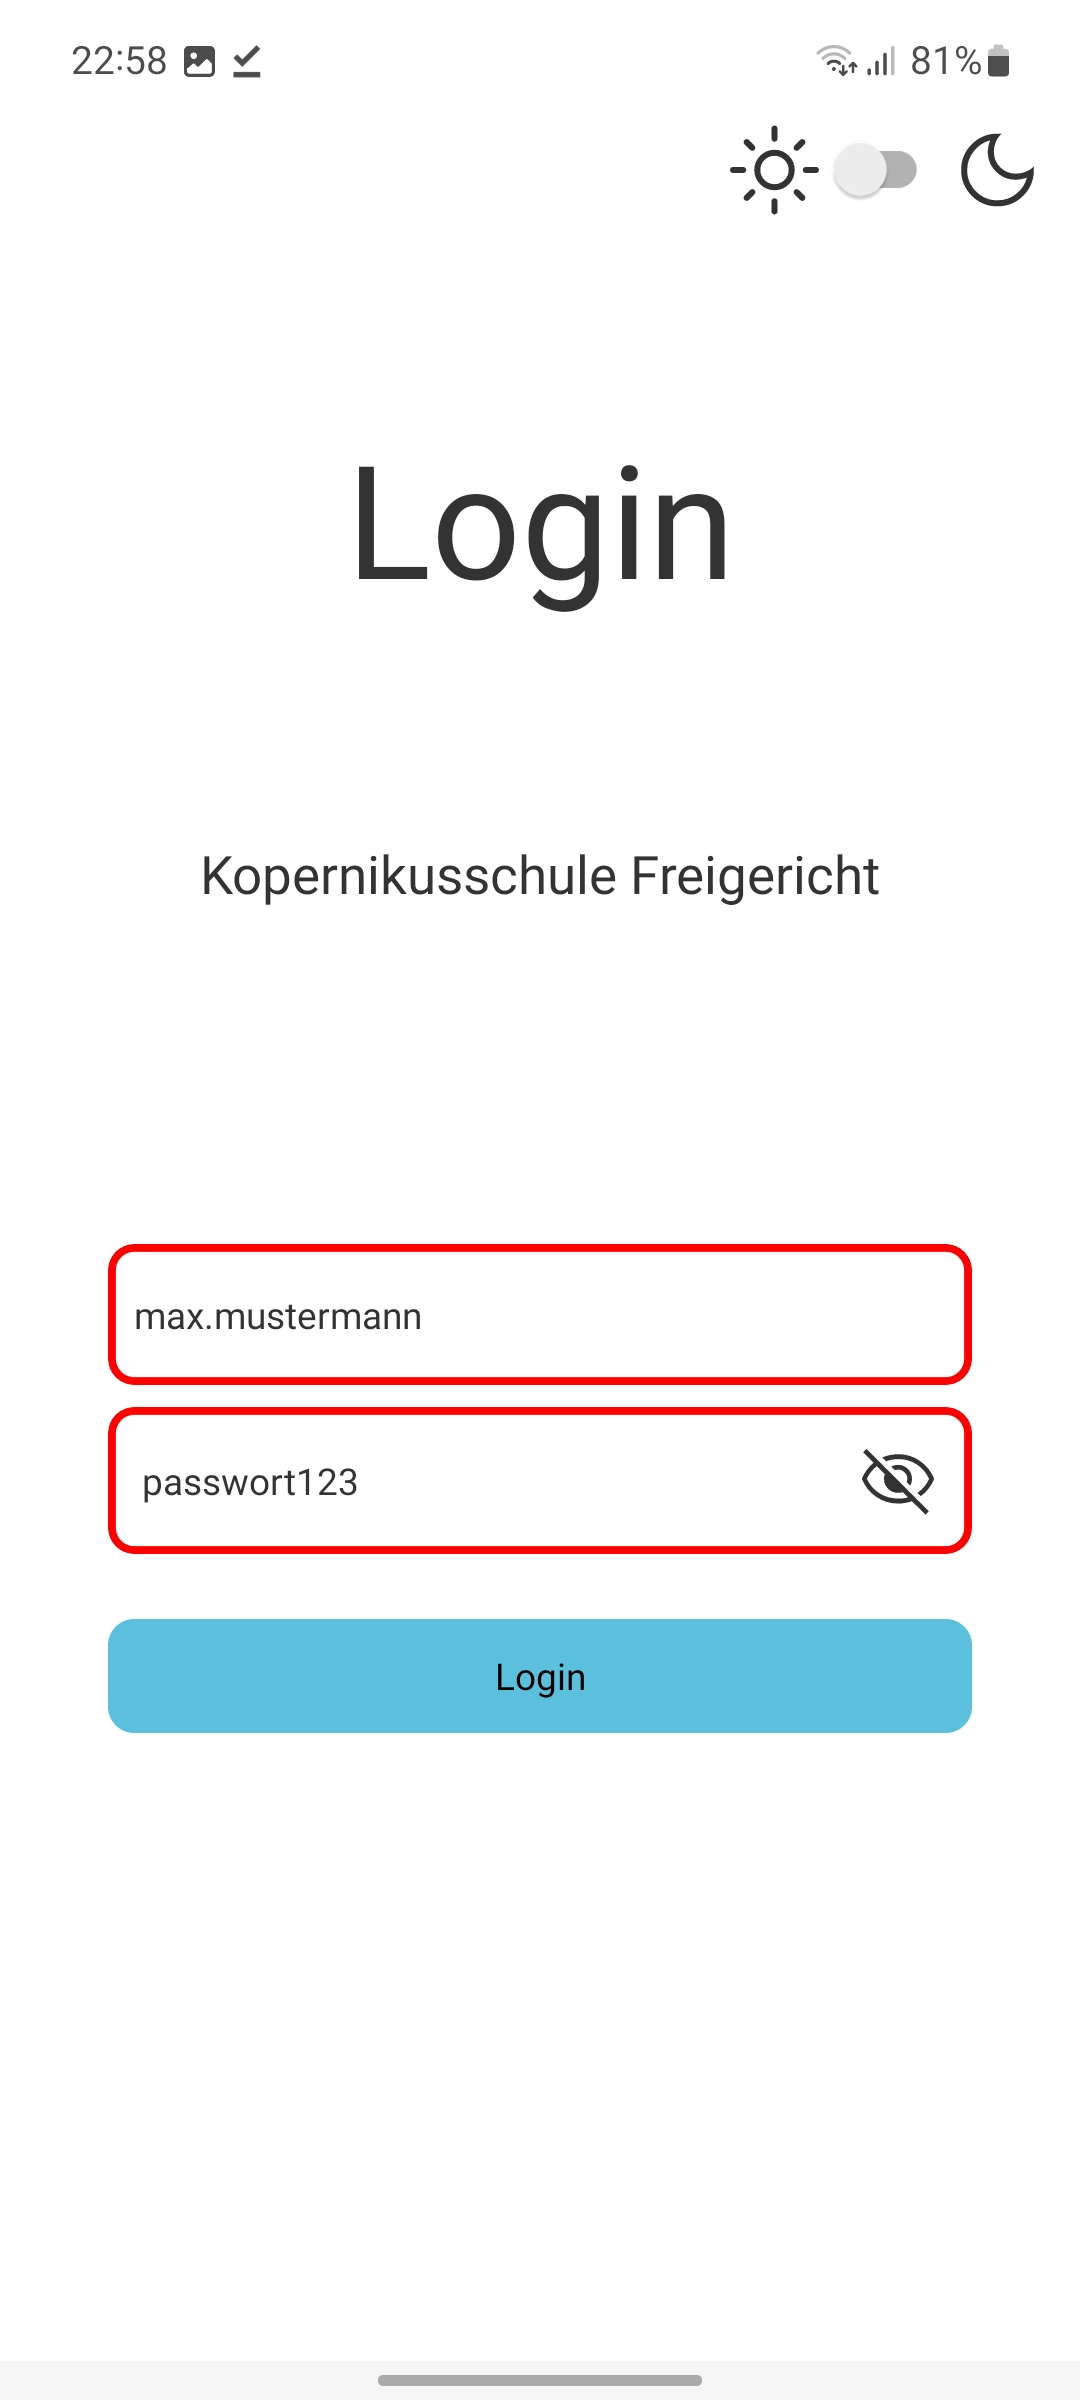
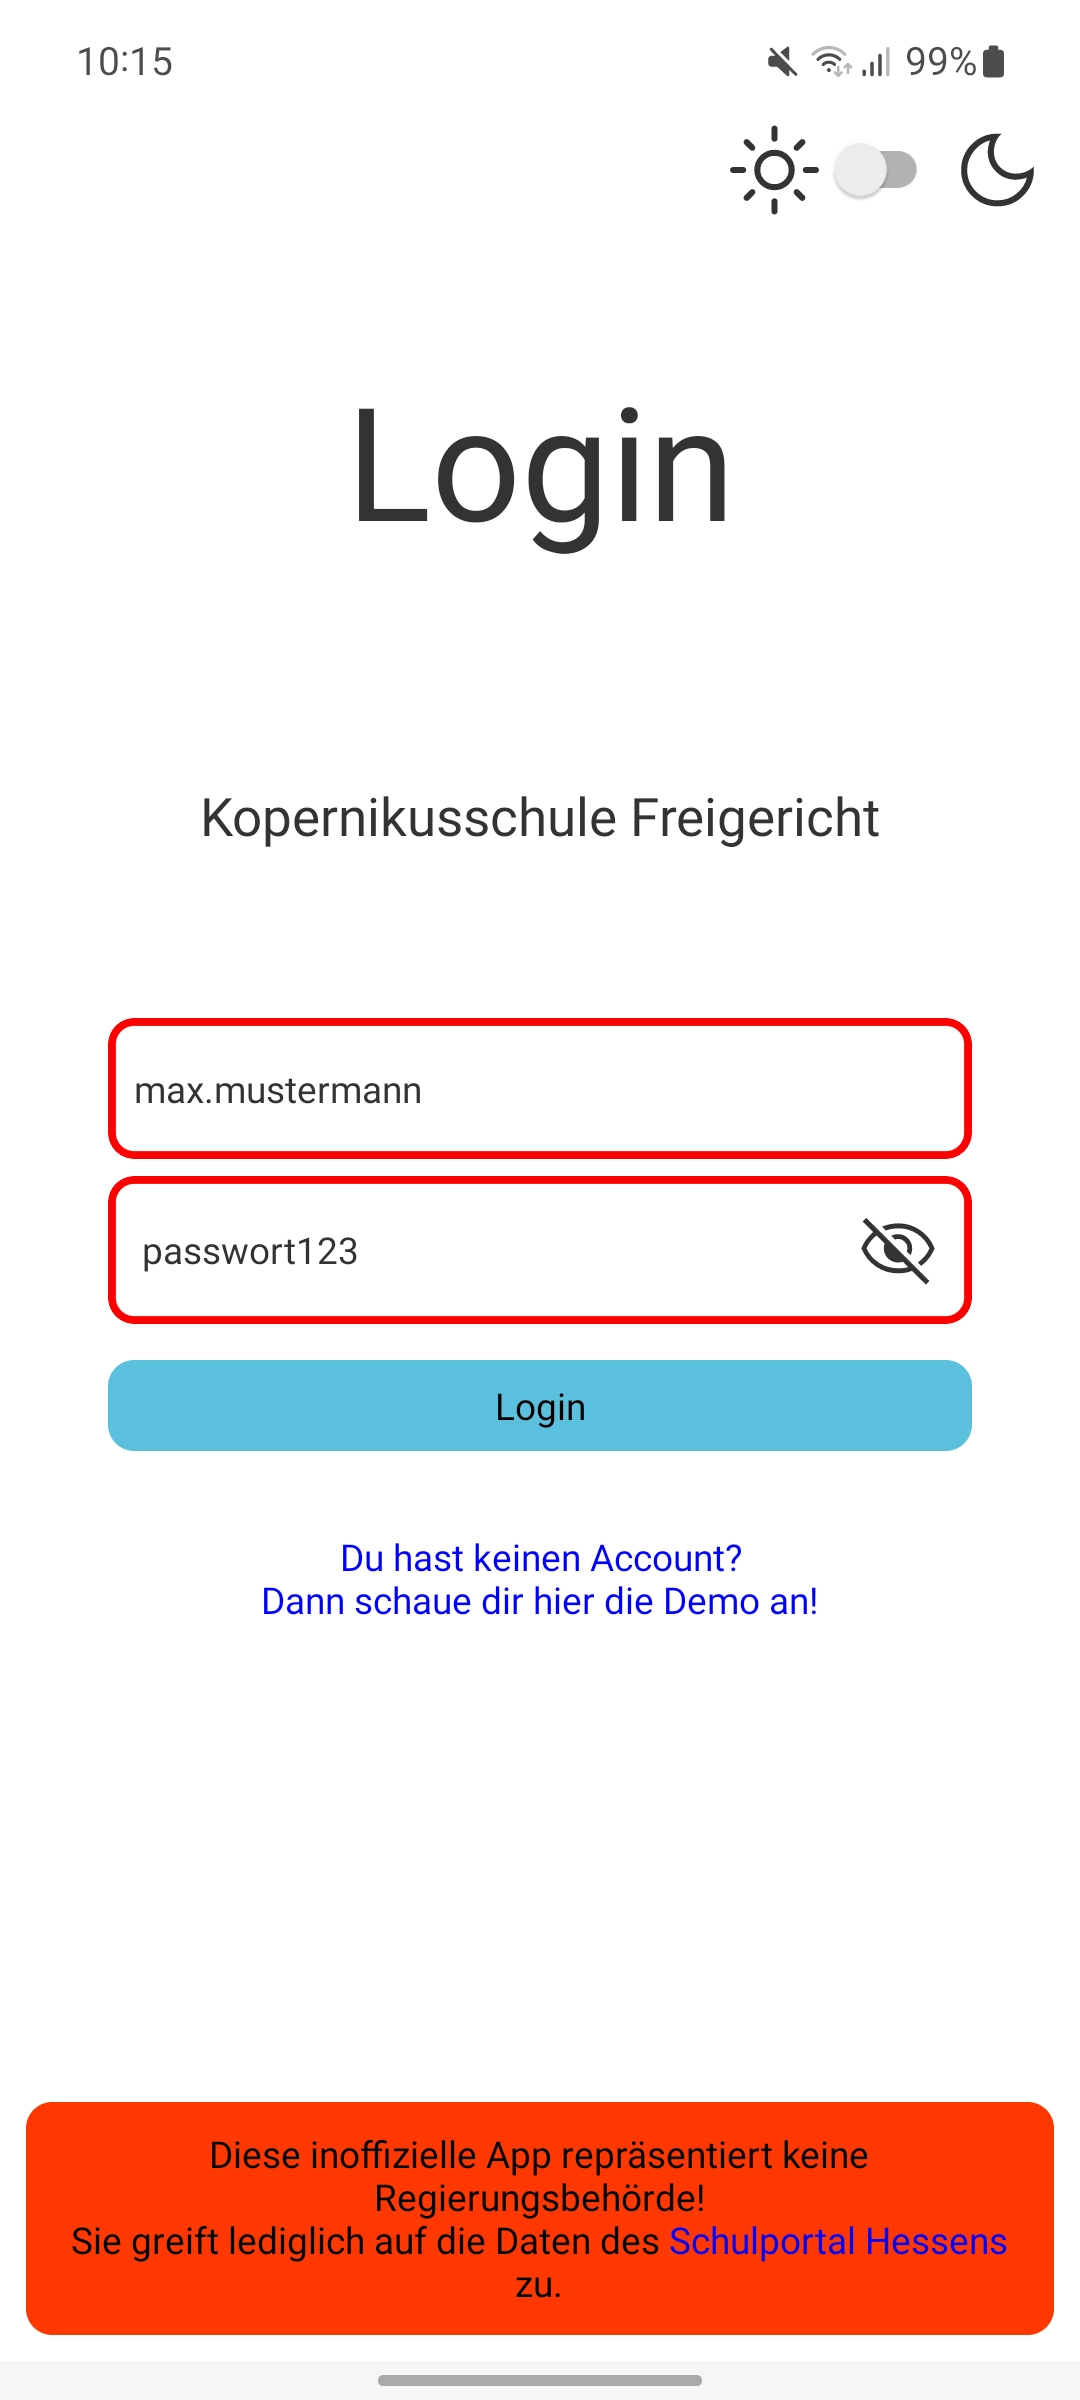
refactored some code, improved ux

diff --git a/src/screens/SubstitutionPlanScreen/SubstitutionPlanScreen.tsx b/src/screens/SubstitutionPlanScreen/SubstitutionPlanScreen.tsx
@@ -19,6 +19,7 @@ import LoadingComponent from "../../components/LoadingComponent";
 import NoSubstitutionsEntry from "./components/NoSubstitutionsEntry";
 import { useTimetable } from "../../hooks/api/useTimetable";
 import useAsyncStorage from "../../hooks/useAsyncStorage";
+import { getTeachers } from "../../services/parsing/getTeachers";
 
 export default function SubstitutionPlanScreen() {
   const [isDonatePopupVisible, setDonatePopupVisible] = useState(false);
@@ -138,7 +139,8 @@ export default function SubstitutionPlanScreen() {
     setPersonalizedSubstitutionPlanEnabled((previousState) => !previousState);
   }
 
-  const { theme, toggleTheme, setTheme } = useContext(ThemeContext);
+  const { theme, toggleTheme, setTheme, backgroundColor } =
+    useContext(ThemeContext);
 
   if (isScreenLoading) {
     return <LoadingComponent />;
@@ -419,33 +421,13 @@ const styles = StyleSheet.create({
 
 function personalizeSubstitutionPlanEntries(
   timetable,
-  substitutionPlanEntries,
-  sid
+  substitutionPlanEntries: ISubstitutionPlanEntry[],
+  sid: string
 ) {
-  let teachers = new Set();
-  if (sid === "DEMO") {
-    teachers.add("DTO");
-    teachers.add("BKL");
-    teachers.add("RSM");
-  } else {
-    for (let row = 0; row < timetable.length; row++) {
-      //start at second column because first column is only description
+  const teachers = getTeachers(sid, timetable);
 
-      for (let column = 1; column < timetable[row].length; column++) {
-        const lesson = timetable[row][column];
-        if (lesson !== "") {
-          const teacher = lesson.split(" ")[2];
-          teachers.add(teacher);
-        }
-      }
-    }
-  }
-
-  let filteredEntries: ISubstitutionPlanEntry[] = [];
-  substitutionPlanEntries.forEach((element: ISubstitutionPlanEntry) => {
-    if (teachers.has(element.originalTeacher)) {
-      filteredEntries.push(element);
-    }
+  const filteredEntries = substitutionPlanEntries.filter((element) => {
+    return teachers.has(element.originalTeacher);
   });
   return filteredEntries;
 }

diff --git a/src/contexts/ThemeProvider.tsx b/src/contexts/ThemeProvider.tsx
@@ -1,13 +1,23 @@
 import React, { useState } from "react";
 import { ThemeContext } from "./Contexts";
+import DefaultColors from "../styles/DefaultColors";
 
 export function ThemeProvider({ children }) {
   const [theme, setStateTheme] = useState("light");
+  const [backgroundColor, setBackgroundColor] = useState(
+    DefaultColors.lightThemedBackground
+  );
 
   function toggleTheme() {
     setStateTheme((previousState) =>
       previousState === "light" ? "dark" : "light"
     );
+    setBackgroundColor(
+      theme === "light"
+        ? DefaultColors.darkThemedBackground
+        : DefaultColors.lightThemedBackground
+    );
+    console.log(backgroundColor);
   }
 
   function setTheme(value: string) {
@@ -17,10 +27,18 @@ export function ThemeProvider({ children }) {
     }
 
     setStateTheme(value);
+
+    const newBackgroundColor =
+      value === "light"
+        ? DefaultColors.lightThemedBackground
+        : DefaultColors.darkThemedBackground;
+    setBackgroundColor(newBackgroundColor);
   }
 
   return (
-    <ThemeContext.Provider value={{ theme, toggleTheme, setTheme }}>
+    <ThemeContext.Provider
+      value={{ theme, toggleTheme, setTheme, backgroundColor }}
+    >
       {children}
     </ThemeContext.Provider>
   );

diff --git a/src/contexts/Contexts.ts b/src/contexts/Contexts.ts
@@ -1,5 +1,6 @@
 import React from "react";
+import DefaultColors from "../styles/DefaultColors";
 
-export const ThemeContext = React.createContext({theme: "light", toggleTheme: () => {}, setTheme: (value: string) => {}});   //stores the current theme (dark or light)
+export const ThemeContext = React.createContext({theme: "light", toggleTheme: () => {}, setTheme: (value: string) => {}, backgroundColor: DefaultColors.lightThemedBackground});   //stores the current theme (dark or light)
 
 export const SIDContext = React.createContext(["", (newSID) => {}]);    //stores the sid after login. The sid authorizes the user and needs to be sent with every request to the Schulportal

diff --git a/src/services/parsing/getTeachers.ts b/src/services/parsing/getTeachers.ts
@@ -1,0 +1,23 @@
+export function getTeachers(sid: string, timetable) {
+  let teachers = new Set();
+  
+  if (sid === "DEMO") {
+    teachers.add("DTO");
+    teachers.add("BKL");
+    teachers.add("RSM");
+  } else {
+    for (let row = 0; row < timetable.length; row++) {
+      //start at second column because first column is only description
+
+      for (let column = 1; column < timetable[row].length; column++) {
+        const lesson = timetable[row][column];
+        if (lesson !== "") {
+          const teacher = lesson.split(" ")[2];
+          teachers.add(teacher);
+        }
+      }
+    }
+  }
+
+  return teachers;
+}

diff --git a/src/screens/TryAutoLoginScreen/TryAutoLoginScreen.tsx b/src/screens/TryAutoLoginScreen/TryAutoLoginScreen.tsx
@@ -15,10 +15,13 @@ export default function TryAutoLoginScreen({ route, navigation }) {
     useAsyncStorage("LoginPassword");
 
   function handleLogin(name, password) {
-    if (sid === "") {
+    if (sid === "" || sid === "DEMO") {
       login(6013, name, password).then(([error, sid]) => {
         if (sid === "") {
           navigation.replace("Login", { error: error });
+        } else if (sid === "DEMO") {
+          navigation.replace("Login", { error: "" });
+          navigation.navigate("SubstitutionPlan");
         } else {
           navigation.replace("SubstitutionPlan");
         }

diff --git a/src/screens/ThemedScreen/ThemedScreen.tsx b/src/screens/ThemedScreen/ThemedScreen.tsx
@@ -6,11 +6,8 @@ import { ThemeContext } from "../../contexts/Contexts";
 import { SafeAreaView } from "react-native-safe-area-context";
 
 export default function ThemedScreen({ children }) {
-  const { theme, toggleTheme, setTheme } = useContext(ThemeContext);
-  const backgroundColor =
-    theme === "light"
-      ? DefaultColors.lightThemedBackground
-      : DefaultColors.darkThemedBackground;
+  const { theme, toggleTheme, setTheme, backgroundColor } =
+    useContext(ThemeContext);
 
   const statusBarStyle = theme === "light" ? "dark-content" : "light-content";
   return (

diff --git a/src/components/LoadingComponent.tsx b/src/components/LoadingComponent.tsx
@@ -5,11 +5,9 @@ import { ThemeContext } from "../contexts/Contexts";
 import DefaultColors from "../styles/DefaultColors";
 
 export default function LoadingComponent() {
-  const { theme, toggleTheme, setTheme } = useContext(ThemeContext);
-  const backgroundColor =
-    theme === "light"
-      ? DefaultColors.lightThemedBackground
-      : DefaultColors.darkThemedBackground;
+  const { theme, toggleTheme, setTheme, backgroundColor } =
+    useContext(ThemeContext);
+
   return (
     <ThemedScreen>
       <View

diff --git a/src/components/ThemeChangerComponent.tsx b/src/components/ThemeChangerComponent.tsx
@@ -7,7 +7,8 @@ import useAsyncStorage from "../hooks/useAsyncStorage";
 
 export default function ThemeChangerComponent(props) {
   const { getData: getTheme, storeData: storeTheme } = useAsyncStorage("Theme");
-  const { theme, toggleTheme, setTheme } = useContext(ThemeContext);
+  const { theme, toggleTheme, setTheme, backgroundColor } =
+    useContext(ThemeContext);
 
   useEffect(() => {
     getTheme().then((storedTheme) => {

diff --git a/src/screens/LoginScreen/LoginScreen.tsx b/src/screens/LoginScreen/LoginScreen.tsx
@@ -26,7 +26,8 @@ export default function LoginScreen({ route, navigation }) {
     DefaultColors.lightBlue
   );
   const [areTextInputsEnabled, setTextInputsEnabled] = useState(true);
-  const { theme, toggleTheme, setTheme } = useContext(ThemeContext);
+  const { theme, toggleTheme, setTheme, backgroundColor } =
+    useContext(ThemeContext);
   const fontColor =
     theme === "light"
       ? DefaultColors.darkThemedBackground

diff --git a/src/screens/LoginScreen/components/PasswordInputToggableVisibilityComponent.tsx b/src/screens/LoginScreen/components/PasswordInputToggableVisibilityComponent.tsx
@@ -14,7 +14,8 @@ export default function PasswordInputToggableVisibilityComponent({
   isEnabled,
 }) {
   const [isPasswordVisible, setPasswordVisible] = useState(false);
-  const { theme, toggleTheme, setTheme } = useContext(ThemeContext);
+  const { theme, toggleTheme, setTheme, backgroundColor } =
+    useContext(ThemeContext);
   const fontColor =
     theme === "light"
       ? DefaultColors.darkThemedBackground

diff --git a/src/navigation/Main.tsx b/src/navigation/Main.tsx
@@ -23,6 +23,7 @@ function Main() {
         <Stack.Screen
           name="SubstitutionPlan"
           component={SubstitutionPlanScreen}
+          options={{ animation: "none" }}
         />
       </Stack.Navigator>
     </NavigationContainer>
